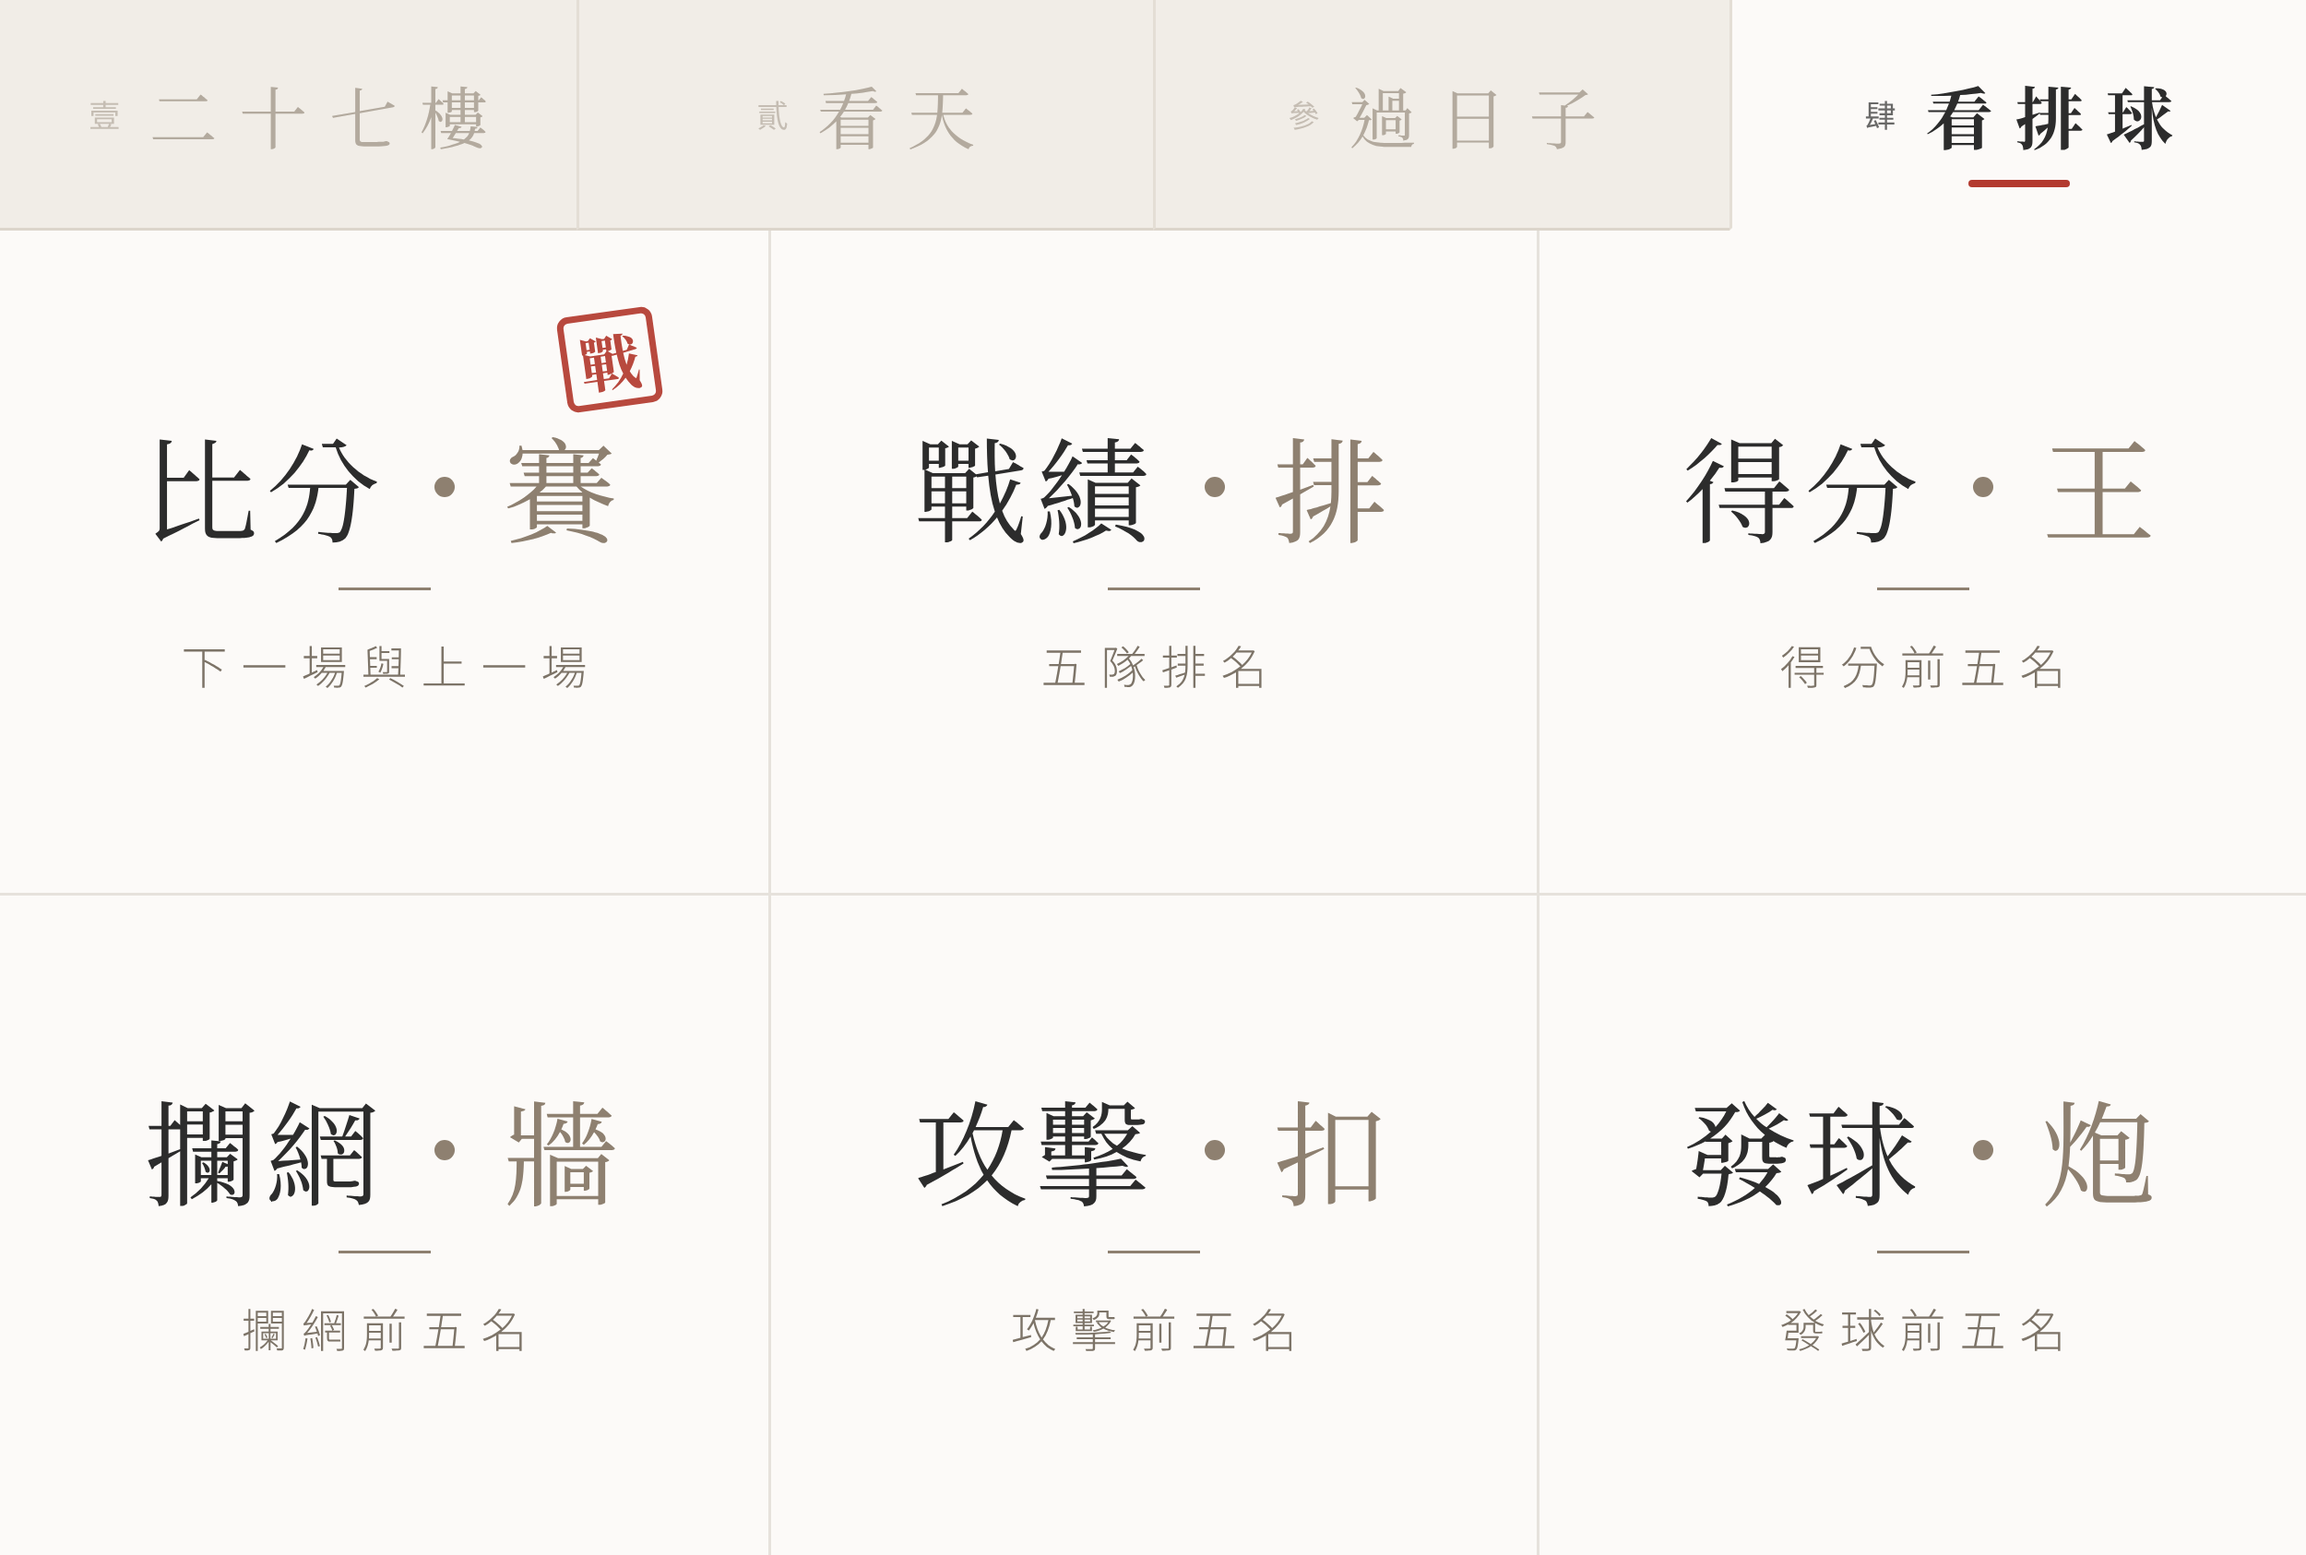
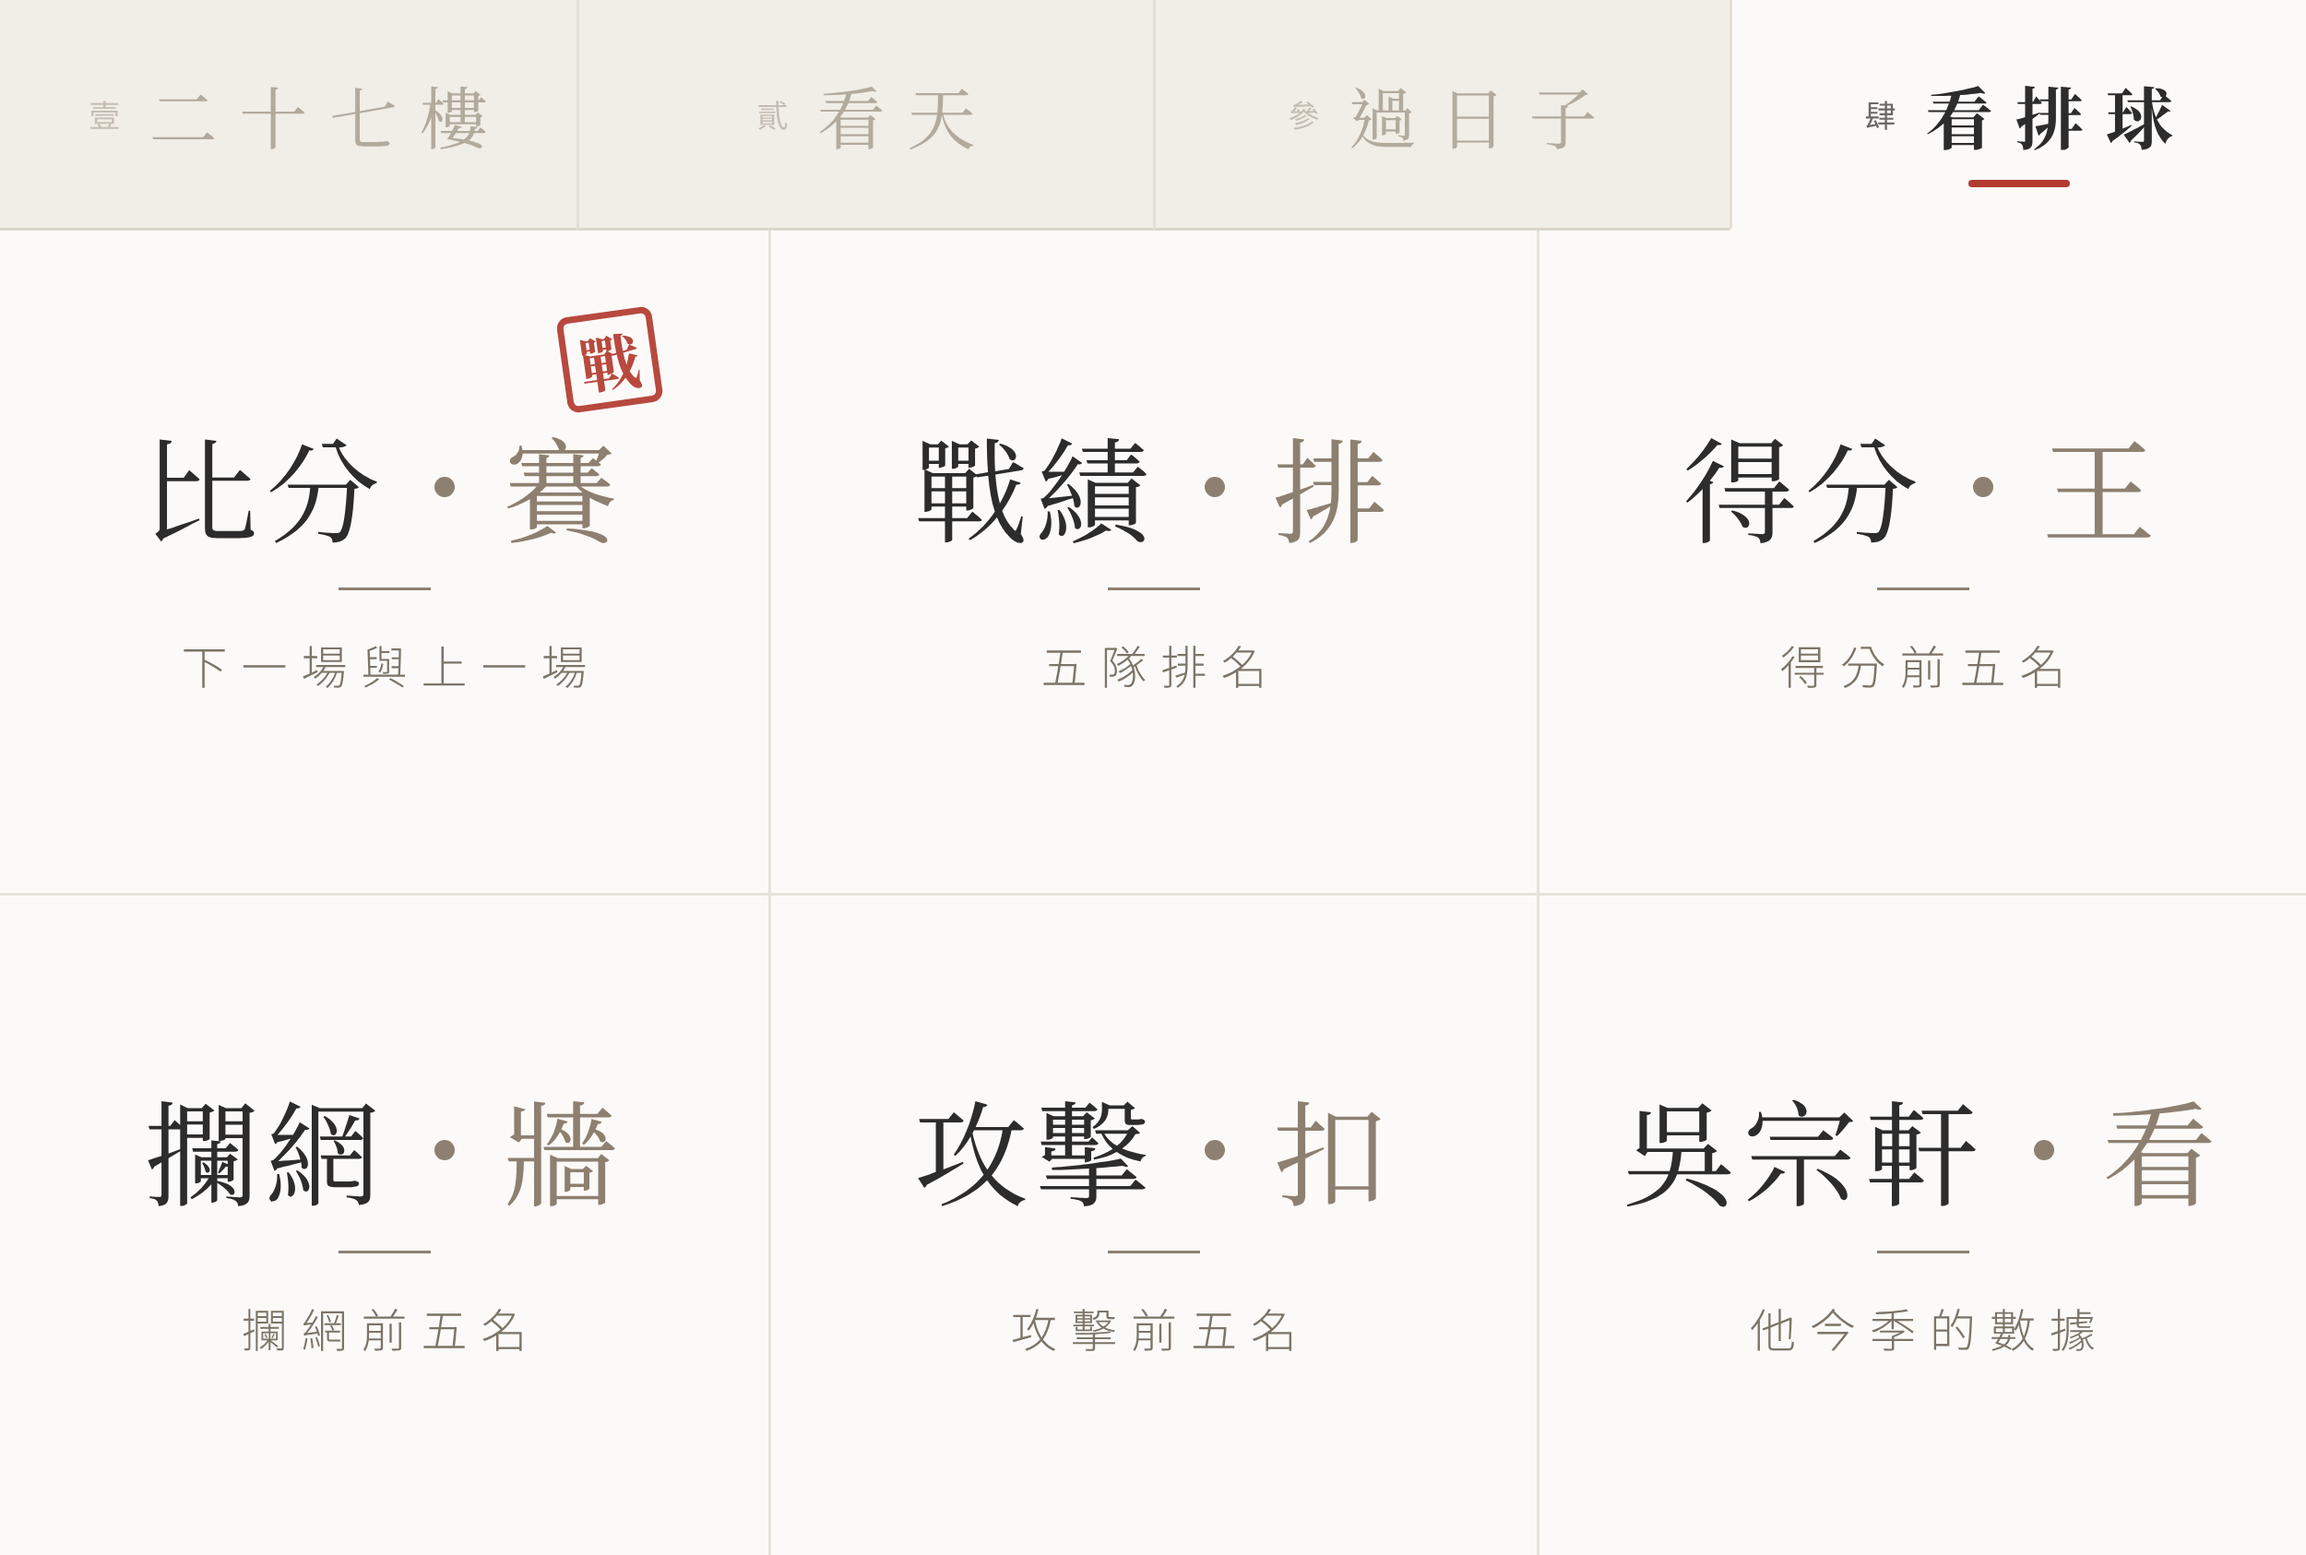
line bot: add 吃什麼 and 匯率 (Bank of Taiwan rates); menu swaps stocks for them, volleyball tab gets 吳宗軒
Claude-Session: https://claude.ai/code/session_01DfELKGAuUeHGLNNJha5AAX

Changed region(s): [[0.6864, 0.7094, 0.9672, 0.7711], [0.7488, 0.8327, 0.9048, 0.8636]]

diff --git a/CLAUDE.md b/CLAUDE.md
@@ -113,12 +113,14 @@
 - `股`／`股價`／`股票`（後面接代號或名稱）：證交所 `openapi.twse.com.tw/v1/exchangeReport/STOCK_DAY_ALL`，找不到再查櫃買中心 `tpex_mainboard_daily_close_quotes`（很大，所以放後面），都不用金鑰、都是最近一個交易日收盤。欄位名稱兩邊不同，`normalizeStock()` 統一；日期是民國 `1151111`（`rocDate()`）；數字是字串，可能有逗號。漲朱色、跌綠色（`STOCK_DOWN`，台股習慣）。查到的那檔存 20 分鐘（`stock:` + 查詢字）。**群組裡查不到就不回**（`replyStock` 收到 `source`，非一對一回 `null`），避免「股市今天…」被當指令。
 - `排球`／`TPVL`（後面可接隊名或 `戰績`）：TPVL **沒有公開 API**，從 `tpvl.tw/matches`、`/standings` 的 HTML 抓 Next.js RSC flight payload（`self.__next_f.push([1,"..."])` 串起來），展開 `"$L<id>"` lazy 參照（`tpvlDefs`／`tpvlResolve`），每列用 `className":"tp-mrow"`／`tp-sx-row` 切段，欄位是 `"data-field":"x","data-value":"y"`（`tpvlFields`，取第一次出現的）。參考 `ichendong/tpvl-skill`（MIT）。未完賽的列清掉比分（會撿到別場的）、同 `match_no`＋日期去重。隊名 slug 對照在 `TPVL_TEAMS`、簡稱在 `TPVL_ALIASES`（2026-27 五隊）。存 30 分鐘（`tpvl:matches`／`tpvl:standings`）。**官網改版就會壞**，壞了回「讀不到」。群組裡認不得的隊名不回。Claude 的環境連不到 tpvl.tw，測試用模擬的 payload。
 - 排球球員（`排球 得分王`／`攔網`／`發球`／`攻擊`／`接發`／`防守`／`舉球`、`排球 球員 名字`、`排球 <隊> 球員`）：網址（`VOLLEY_CATEGORIES.path` + `query`）：得分是 `/stats/players?m=points&sort=points&order=desc`，其他是技能頁 `/stats/players/skills?m=block_points&skill=block&ssort=success&sorder=desc`、`m=reception_success&skill=reception…`、`m=dig_success&skill=dig…`、`m=setting_success&skill=setting…`（開源專案寫的 `sort=block_points` 是舊格式，官網會忽略）。得分頁的欄位是 `points`、`points_per_set`、`high_points`；技能頁的數字在 `success`（次數）、`success_rate`（可能是 0.48 或 48.5，`rateFmt()` 都處理）、`per_set`。`leaderField()` 取這頁第一個真的有值的欄位。**技能排行的路徑是 `/stats/players/skills?…`**（使用者在瀏覽器確認的；頁面裡的連結寫成 `/stats/players?…skill=…`，抓那個只會拿到得分頁）。路徑在 `VOLLEY_CATEGORIES.path`。讀不到數字欄位時回「讀不到數字，可能改版了」加官網連結。位置是 `"data-taxonomy":"position","data-term":"middle","children":"快攻手"`。每種一頁、存 1 小時（`tpvl:players:<key>`），一頁約 690KB。球員卡和單隊球員都用得分那頁。`debugTpvlPlayers()`／`debugTpvlLinks()` 會印出頁面實際的欄位和連結，官網改版時先跑這兩個。
+- `吃什麼`／`要吃什麼`／`吃啥`（`replyEat()`，不用網路）：照台灣時間挑早餐／午餐／下午茶／晚餐／宵夜（`EAT_MENUS`），後面可接餐別（`EAT_WORDS`：宵夜、甜點…）和「不要火鍋」「火鍋以外」；卡片下面「再抽一次」會帶同樣條件再送一次。群組裡剩下的字超過 4 個（「吃什麼都好啦我隨便」）就不回。
+- `匯率`（`replyFx()`）：臺灣銀行牌告 CSV `https://rate.bot.com.tw/xrt/flcsv/0/day`（不用金鑰，一列一幣：幣別、本行買入、現金、即期、遠期…、本行賣出、現金、即期…，沒有的填 0；`fxRates()` 用「本行買入／本行賣出」的位置找欄），存 30 分鐘（`fx`）。只打「匯率」列日圓、美金、韓元、歐元、人民幣、港幣、泰銖的現金賣出和「1 萬日圓≈多少台幣」；`匯率 日圓`、`匯率 日圓 3萬`（要付多少台幣）、`匯率 台幣5000 韓元`（換得到多少），幣別別名在 `FX_NAMES`。
 - `狗`／`汪`／`狗狗`、`貓`／`喵`／`貓咪`（`exact: true`：整句只有這個字才算，群組聊天不會亂跳圖）：dog.ceo、The Cat API（備援 cataas），回圖片訊息加一句廢話。圖片訊息只回網址，LINE 自己去抓；要 HTTPS、JPEG／PNG（`isLineImage()`），gif 會重抽。`reply()` 可以一次回多則（陣列，最多 5 則）。
 - 規則：只讀（程式裡不能有寫入 Sheet 的呼叫，要寫入的事回網站連結）、只用 Reply API（不推播）、不回名字電話 Email。
 - 指令碼屬性：`LINE_CHANNEL_ACCESS_TOKEN`、`SHEET_ID`、`WEBHOOK_KEY`（webhook 網址要帶 `?key=`，對不上或沒設定就不處理）。
 - 擲杯的三聖杯存在 `CacheService`，key 是 `streak:` + groupId／roomId／userId，6 小時。
 - **台詞跟網站同步**：擲杯台詞（`jiaobei.html` 的 `RESULTS`）、御神籤（`index.html` 的 `FORTUNES`）改了，`line-bot/Code.gs` 的 `JIAOBEI_LINES`、`FORTUNES` 也要改，並請使用者重新部署 bot 專案。
-- **圖文選單是四個分頁**（`Code.gs` 的 `RICH_MENUS`，用 Messaging API 建，不是在 Official Account Manager 手動設）：上面一排分頁（壹 二十七樓、貳 看天、參 過日子、肆 看排球，高 250px、每個寬 625px（`RM_TABS`），`richmenuswitch` 切換，分頁代號 `dbl-27`／`dbl-sky`／`dbl-life`／`dbl-volley`），下面 3×2 六格（`RM_COLS`；message 動作等於幫使用者打指令；訂房是網站網址；「遊戲・玩」是 `GAMES_URL` = 網站 LIFF 的 `member.html`，在 LINE 裡點開會自動用 LINE 登入、錢包跟著帳號）。過日子：油價、台積電（`股 2330`）、0050、分帳（直接開 `SPLIT_URL`）、狗、貓；看排球：比分、戰績、得分王、攔網、攻擊、發球（接發、防守、舉球、球員要自己打）。圖是 `line-bot/richmenu-27/sky/life/volley.png`（2500×1686），由 `line-bot/richmenu-tabs.js` 照 `richmenu-tabs.json` 產生；**`richmenu-tabs.json` 和 `RICH_MENUS` 要手動保持一致**，改了要把 `RICH_MENU_VERSION` 加一，請使用者在編輯器執行 `setupRichMenus()`（先驗證全部、先抓好圖才開始建，建好換分頁代號、設預設、刪掉舊的 `dbl-*`）；`removeRichMenus()` 回到 Official Account Manager 的舊選單（`line-bot/richmenu.png`）。點分頁 LINE 會送 postback，`doPost` 不處理 postback，所以不會回話。群組裡看不到圖文選單。新增指令想放進選單，要換掉某一格。
+- **圖文選單是四個分頁**（`Code.gs` 的 `RICH_MENUS`，用 Messaging API 建，不是在 Official Account Manager 手動設）：上面一排分頁（壹 二十七樓、貳 看天、參 過日子、肆 看排球，高 250px、每個寬 625px（`RM_TABS`），`richmenuswitch` 切換，分頁代號 `dbl-27`／`dbl-sky`／`dbl-life`／`dbl-volley`），下面 3×2 六格（`RM_COLS`；message 動作等於幫使用者打指令；訂房是網站網址；「遊戲・玩」是 `GAMES_URL` = 網站 LIFF 的 `member.html`，在 LINE 裡點開會自動用 LINE 登入、錢包跟著帳號）。過日子：油價、吃什麼、匯率、分帳（直接開 `SPLIT_URL`）、狗、貓（股價還是可以打字查）；看排球：比分、戰績、得分王、攔網、攻擊、吳宗軒（`排球 球員 吳宗軒`；發球、接發、防守、舉球要自己打）。圖是 `line-bot/richmenu-27/sky/life/volley.png`（2500×1686），由 `line-bot/richmenu-tabs.js` 照 `richmenu-tabs.json` 產生；**`richmenu-tabs.json` 和 `RICH_MENUS` 要手動保持一致**，改了要把 `RICH_MENU_VERSION` 加一，請使用者在編輯器執行 `setupRichMenus()`（先驗證全部、先抓好圖才開始建，建好換分頁代號、設預設、刪掉舊的 `dbl-*`）；`removeRichMenus()` 回到 Official Account Manager 的舊選單（`line-bot/richmenu.png`）。點分頁 LINE 會送 postback，`doPost` 不處理 postback，所以不會回話。群組裡看不到圖文選單。新增指令想放進選單，要換掉某一格。
 
 ## 設計規範
 
